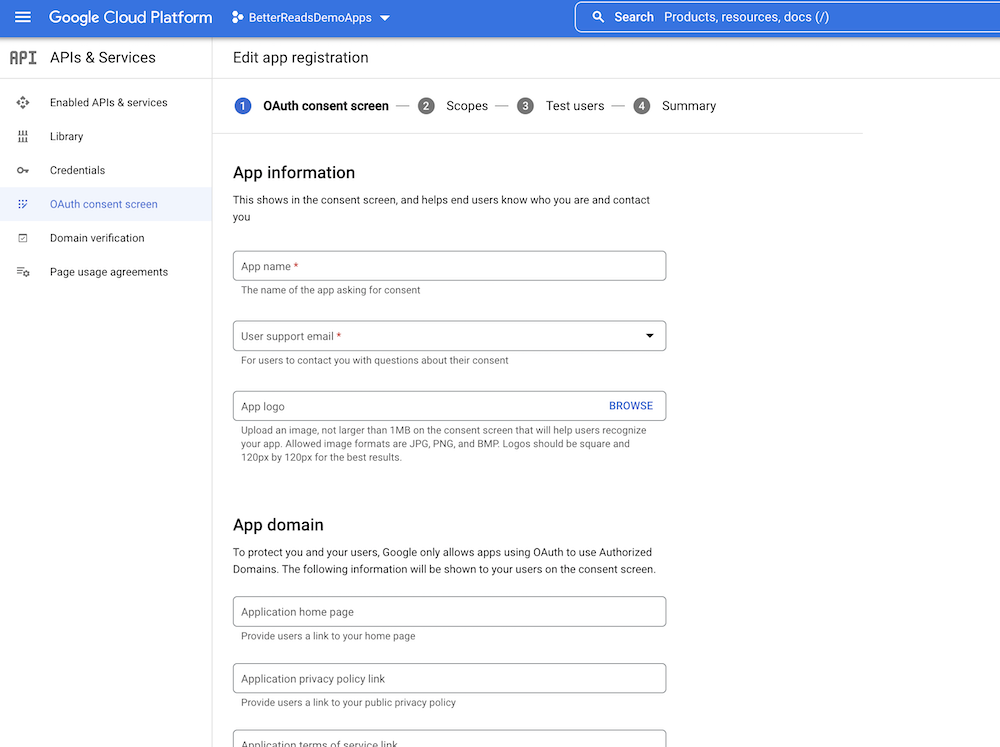
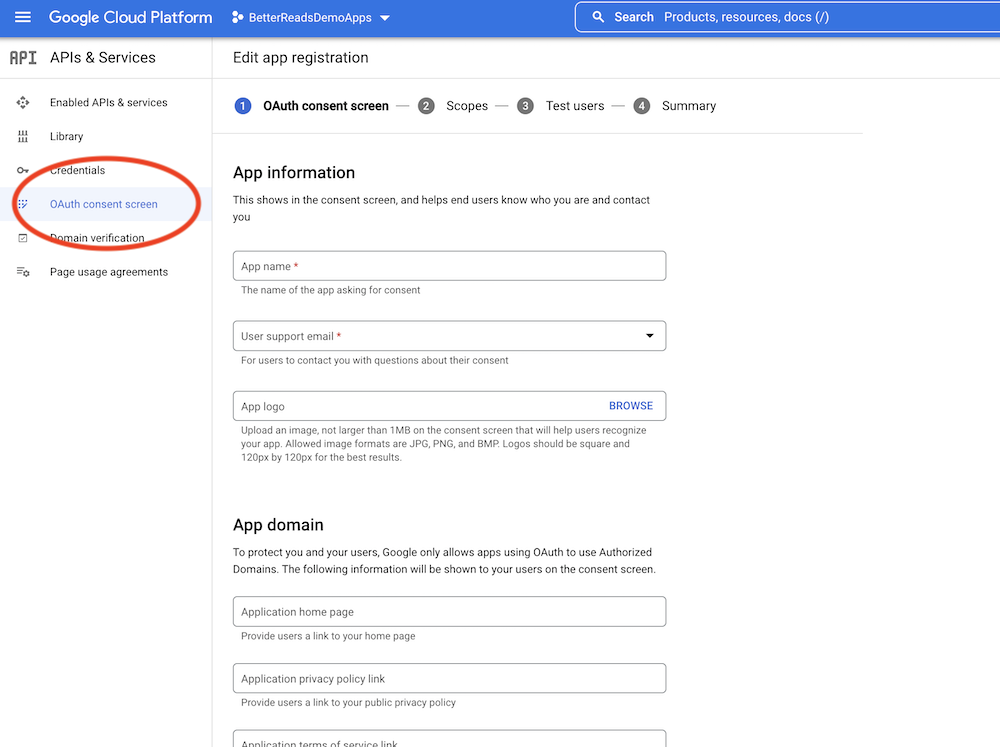
Update Readme

diff --git a/README.md b/README.md
@@ -357,9 +357,75 @@ This is only what we can do at this point. To mark the book as read we will need
 
 [🏠 Back to Table of Contents](#-table-of-content)
 
-## 11. Setup Github Apps
+## 11. Setup Authentication
 
-Default settings in `application.yml` use an application from `DatastaxDevelopers` but it must run locally.
+### ✅ 11a. Setup Google OAuth2
+
+- Connect to [Google Cloud Platform](https://console.cloud.google.com)
+
+- Create a new project if needed `BetterReadsDemoApps` and click `[CREATE]]`
+
+![new_terminal](https://github.com/datastaxdevs/workshop-betterreads/blob/master/img/gcp1.png?raw=true)
+
+- Select `[ENABLE APIS AND SERVICES]` in menu
+
+![new_terminal](https://github.com/datastaxdevs/workshop-betterreads/blob/master/img/gcp2.png?raw=true)
+
+- Search for Gmail and Google Analytics and add them to your project
+
+![new_terminal](https://github.com/datastaxdevs/workshop-betterreads/blob/master/img/gcp3.png?raw=true)
+
+![new_terminal](https://github.com/datastaxdevs/workshop-betterreads/blob/master/img/gcp4.png?raw=true)
+
+- Select `[OAuth consent screen]` in the menu on the left. Provide your application name, a support email and the application logo.
+
+![new_terminal](https://github.com/datastaxdevs/workshop-betterreads/blob/master/img/gcp5.png?raw=true)
+
+- Check the `External` (or internal as you prefer).
+
+![new_terminal](https://github.com/datastaxdevs/workshop-betterreads/blob/master/img/gcp6.png?raw=true)
+
+- On menu in the left select *Credentials* and use the button on top `[CREATE CREDENTIALS]`/ OAuth ClientID.
+
+![new_terminal](https://github.com/datastaxdevs/workshop-betterreads/blob/master/img/gcp7.png?raw=true)
+
+- Select `Web Application` and provide a name
+
+![new_terminal](https://github.com/datastaxdevs/workshop-betterreads/blob/master/img/gcp8.png?raw=true)
+
+- Add the URL home page *http://localhost:8080* if you work locally or the result of `gp url 8080` on gitpod.
+
+- Add the redirect *http://localhost:8080/login/oauth2/code/google* if you work locally or the result of `echo $(gp url 8080)/login/oauth2/code/google` on gitpod.
+
+![new_terminal](https://github.com/datastaxdevs/workshop-betterreads/blob/master/img/gcp9.png?raw=true)
+
+- A new page open with you clientId and client secret copy them
+
+![new_terminal](https://github.com/datastaxdevs/workshop-betterreads/blob/master/img/gcp10.png?raw=true)
+
+- You are all set
+
+![new_terminal](https://github.com/datastaxdevs/workshop-betterreads/blob/master/img/gcp11.png?raw=true)
+
+- Open file `src/main/resources/application.yml` in your project
+
+```
+gp open /workspace/workshop-betterreads/better-reads-webapp/src/main/resources/application.yml
+```
+
+- Changes keys `client-id` and `client-secret` with your values for the provider `Google`.
+
+```yaml
+  security:
+    oauth2:
+      client:
+        registration:
+          google:
+            client-id: change
+            client-secret: change
+```
+
+### ✅ 11b. Setup up Github (local deployment)
 
 As each attendee has a different URL in gitpod you will have to create your own github APPS. Let's do this together.
 
@@ -425,13 +491,24 @@ Just kidding.
 
 - Open `application.yml`
 
+- Open file `src/main/resources/application.yml` in your project
+
 ```
 gp open /workspace/workshop-betterreads/better-reads-webapp/src/main/resources/application.yml
 ```
 
-- Changes keys `client-id` and `client-secret` with your values
+- Changes keys `client-id` and `client-secret` with your values for the provider `Github`.
 
-![new_terminal](https://github.com/datastaxdevs/workshop-betterreads/blob/master/img/githubapps11.png?raw=true)
+```yaml
+  security:
+    oauth2:
+      client:
+        registration:
+          github:
+            client-id: change
+            client-secret: change
+```
+
 
 [🏠 Back to Table of Contents](#-table-of-content)
 
@@ -443,6 +520,8 @@ gp open /workspace/workshop-betterreads/better-reads-webapp/src/main/resources/a
 cd /workspace/workshop-betterreads/better-reads-webapp
 mvn spring-boot:run
 ```
+
+### ✅ 12a. Authenticate with Github
 
 - On homepage click on `Authenticate with Github`
 
@@ -456,9 +535,23 @@ mvn spring-boot:run
 
 ![new_terminal](https://github.com/datastaxdevs/workshop-betterreads/blob/master/img/githubapps13.png?raw=true)
 
-- Get the login value
+- Your are in !
 
 <img src="https://github.com/datastaxdevs/workshop-betterreads/blob/master/img/screenshot.png?raw=true" />
+
+### ✅ 12b. Authenticate with Google.
+
+- Use the button `[Login via Google]`
+
+![new_terminal](https://github.com/datastaxdevs/workshop-betterreads/blob/master/img/google1.png?raw=true)
+
+- Validate with the familiar Google Screen
+
+![new_terminal](https://github.com/datastaxdevs/workshop-betterreads/blob/master/img/google2.png?raw=true)
+
+- You are in !
+
+![new_terminal](https://github.com/datastaxdevs/workshop-betterreads/blob/master/img/google3.png?raw=true)
 
 [🏠 Back to Table of Contents](#-table-of-content)
 
